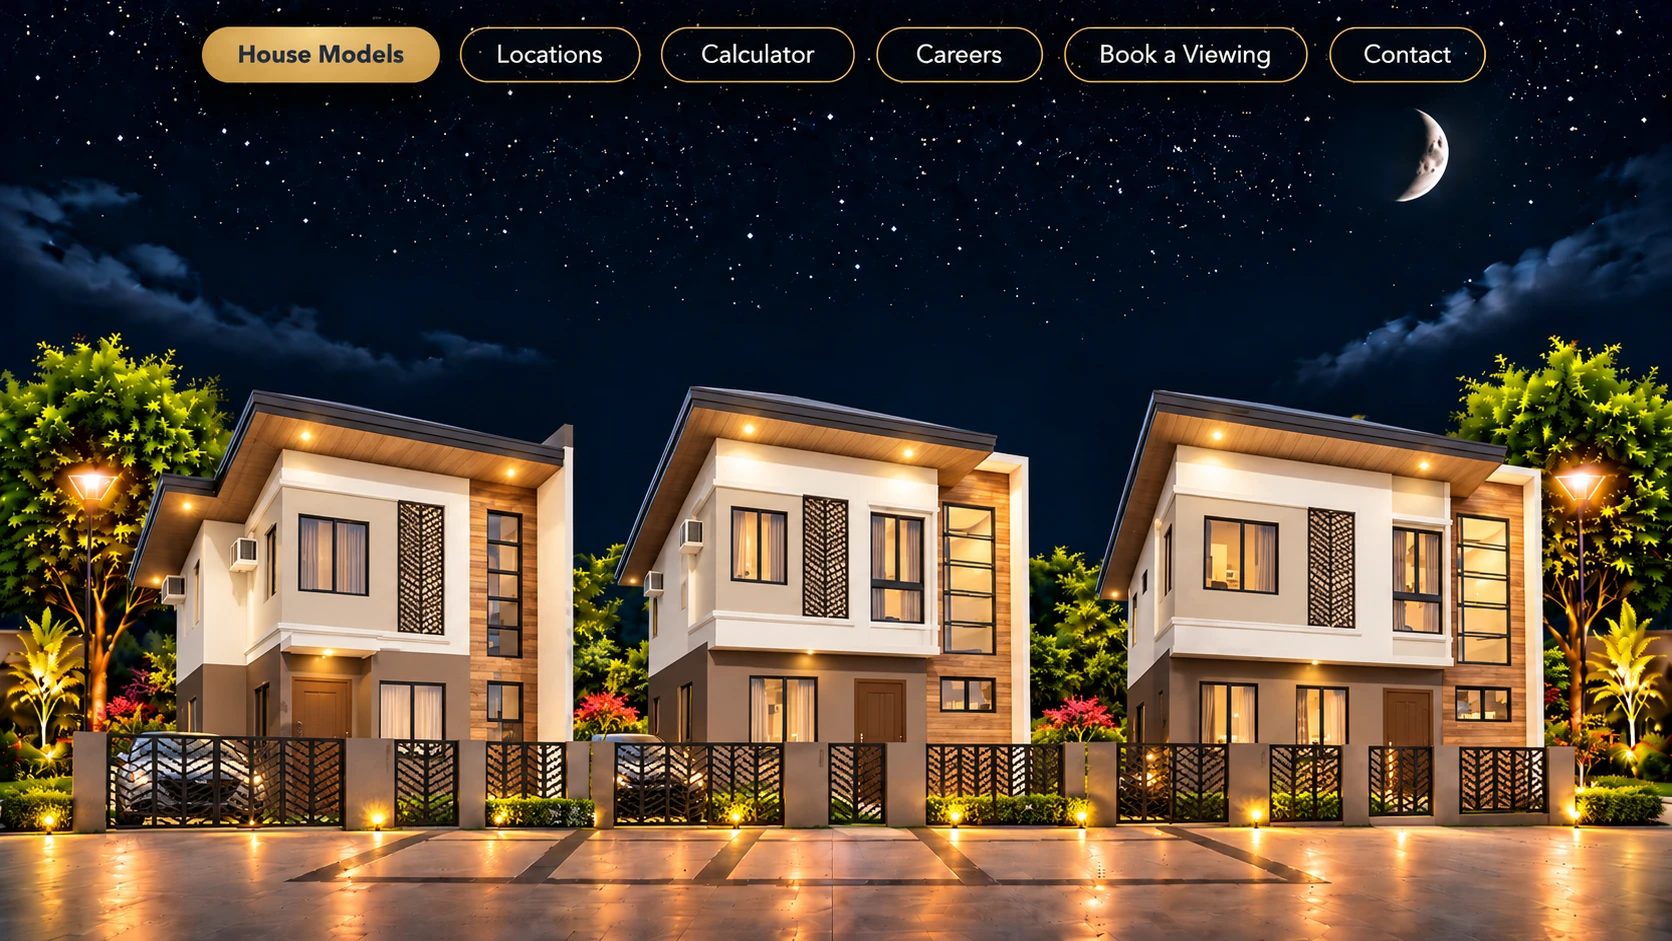
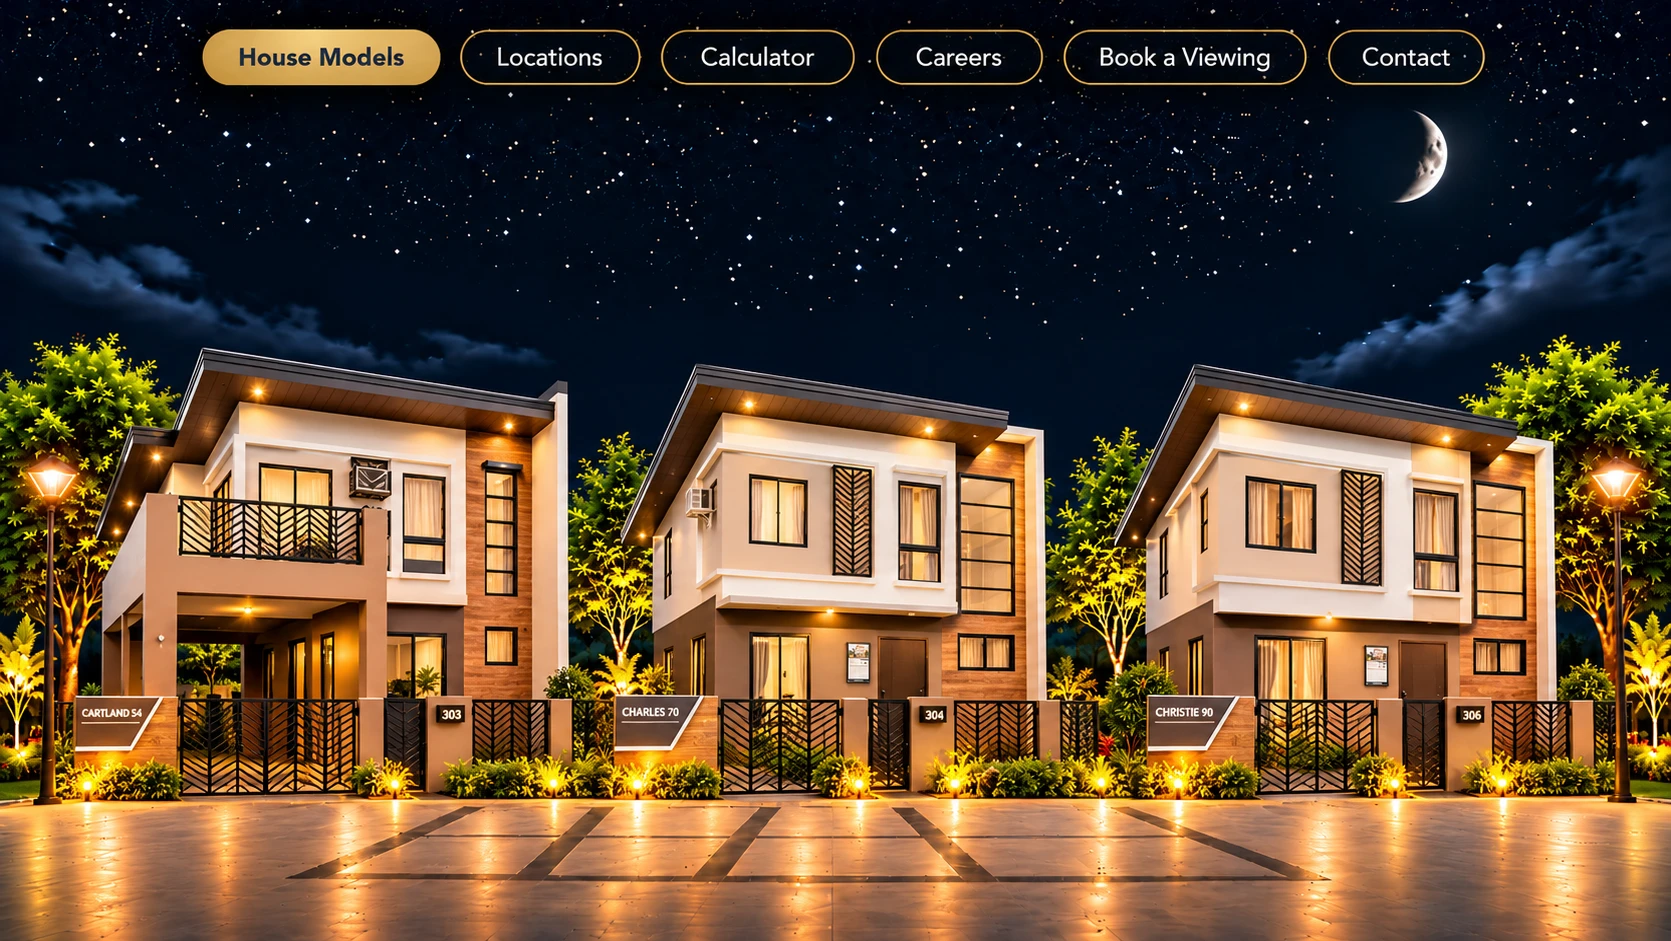
Replace the fifth hero slide with the Cartland, Charles and Christie render
Claude-Session: https://claude.ai/code/session_01MkTV9WsBSWUZ5kcf2am7UY

diff --git a/components/hero.tsx b/components/hero.tsx
@@ -5,7 +5,7 @@ const MODELS = [
   { src: '/assets/img/hero/model-2.webp', alt: 'Blue-grey and white PHirst townhouses at night' },
   { src: '/assets/img/hero/model-3.webp', alt: 'White and yellow PHirst rowhouses at night' },
   { src: '/assets/img/hero/model-4.webp', alt: 'Single-attached PHirst homes at night' },
-  { src: '/assets/img/hero/model-5.webp', alt: 'Two-storey PHirst homes with wood accents at night' },
+  { src: '/assets/img/hero/model-5.webp', alt: 'Cartland, Charles and Christie PHirst homes at night' },
   { src: '/assets/img/hero/model-6.webp', alt: 'Charles and Corin PHirst homes with balconies at night' },
 ];
 
